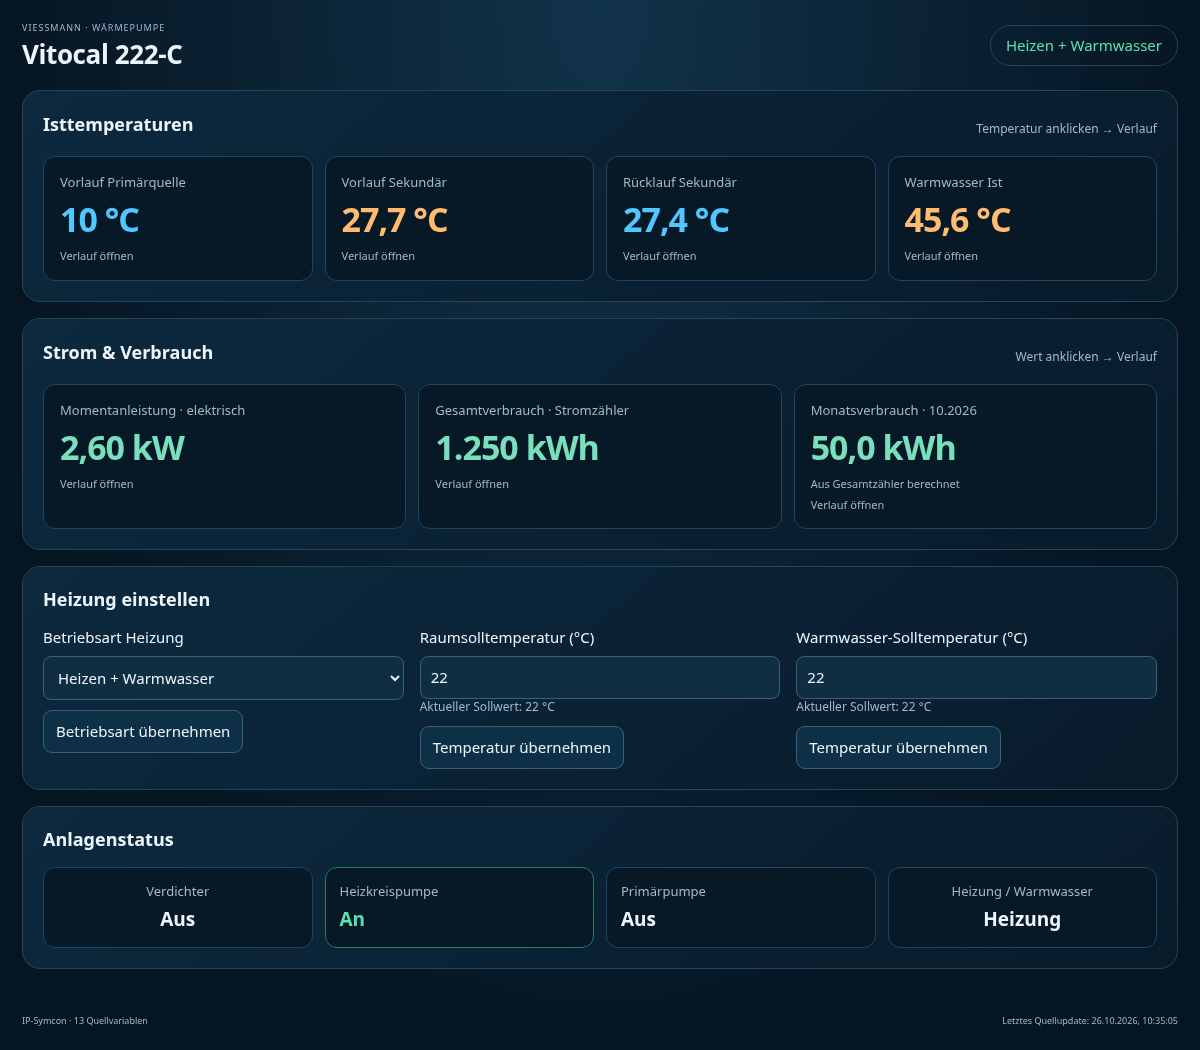
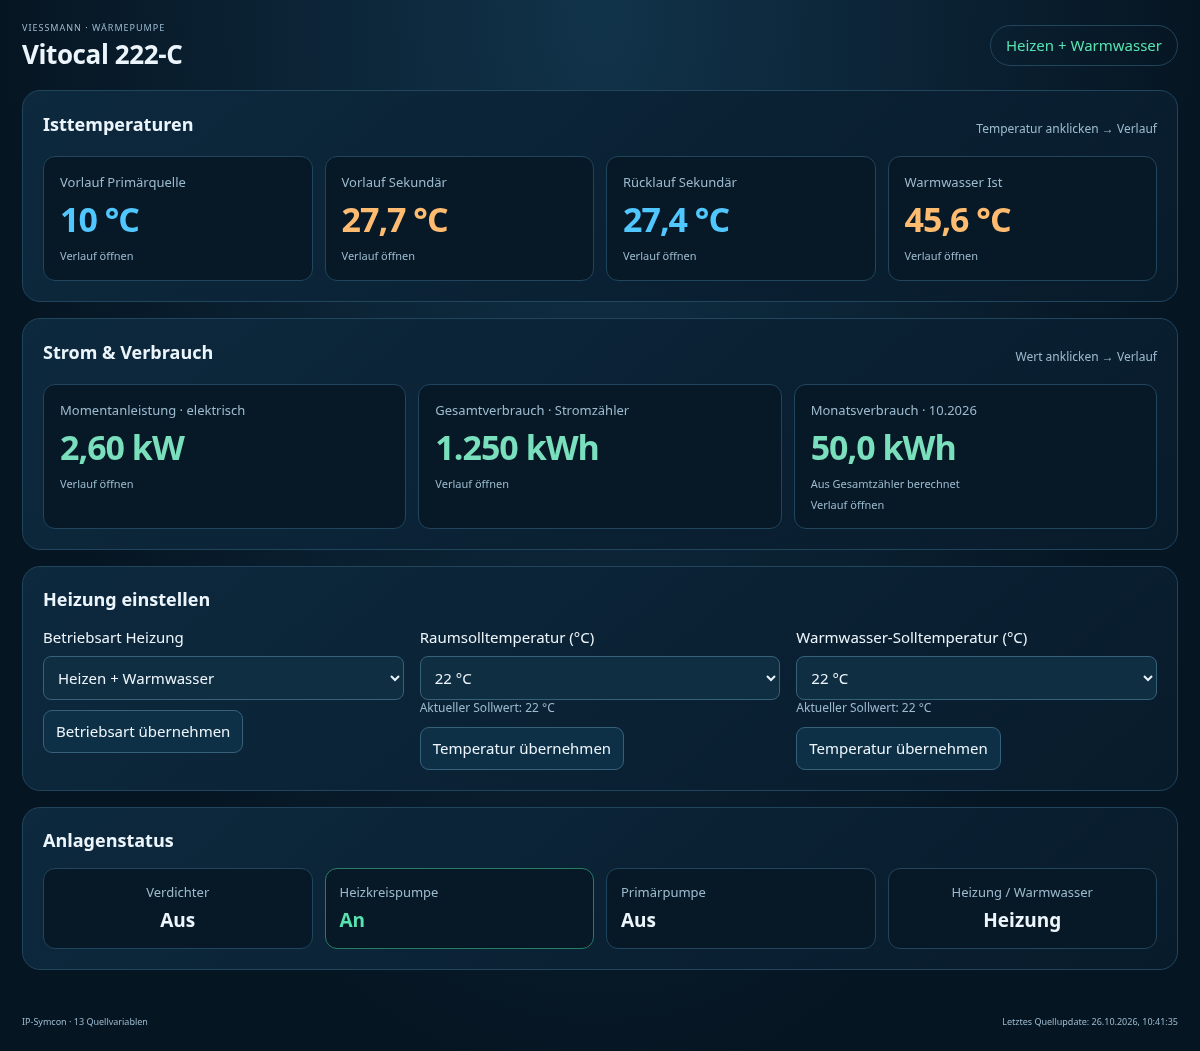
Select room and water targets from one-degree dropdowns

diff --git a/Vitocal222CTile/tile.html b/Vitocal222CTile/tile.html
@@ -26,7 +26,7 @@
 <button class="reading energy-card" data-history="total"><span class="label">Gesamtverbrauch · Stromzähler</span><span id="total" class="value energy-value">—</span><span id="totalReason" class="energy-note"></span><span class="chart-link">Verlauf öffnen</span></button>
 <button class="reading energy-card" data-history="month"><span id="monthCaption" class="label">Monatsverbrauch</span><span id="month" class="value energy-value">—</span><span id="monthReason" class="energy-note"></span><span class="chart-link">Verlauf öffnen</span></button>
 </div></section>
-<section class="panel wide"><h2>Heizung einstellen</h2><div class="control-grid"><div><label>Betriebsart Heizung<select id="modeSelect"></select><input id="modeInput" type="text" maxlength="100" aria-label="Betriebsart als Variablenwert" hidden></label><div id="modeReason" class="control-note"></div><button id="applyMode">Betriebsart übernehmen</button></div><div><label>Raumsolltemperatur (°C)<input id="roomTargetInput" type="number" step="0.5" min="10" max="30"></label><div id="roomTargetCurrent" class="control-note"></div><div id="roomTargetReason" class="control-note"></div><button id="applyRoomTarget">Temperatur übernehmen</button></div><div><label>Warmwasser-Solltemperatur (°C)<input id="waterTargetInput" type="number" step="0.5" min="10" max="60"></label><div id="waterTargetCurrent" class="control-note"></div><div id="waterTargetReason" class="control-note"></div><button id="applyWaterTarget">Temperatur übernehmen</button></div></div></section>
+<section class="panel wide"><h2>Heizung einstellen</h2><div class="control-grid"><div><label>Betriebsart Heizung<select id="modeSelect"></select><input id="modeInput" type="text" maxlength="100" aria-label="Betriebsart als Variablenwert" hidden></label><div id="modeReason" class="control-note"></div><button id="applyMode">Betriebsart übernehmen</button></div><div><label>Raumsolltemperatur (°C)<select id="roomTargetInput" required></select></label><div id="roomTargetCurrent" class="control-note"></div><div id="roomTargetReason" class="control-note"></div><button id="applyRoomTarget">Temperatur übernehmen</button></div><div><label>Warmwasser-Solltemperatur (°C)<select id="waterTargetInput" required></select></label><div id="waterTargetCurrent" class="control-note"></div><div id="waterTargetReason" class="control-note"></div><button id="applyWaterTarget">Temperatur übernehmen</button></div></div></section>
 <section class="panel wide"><h2>Anlagenstatus</h2><div id="statuses" class="status-grid"></div></section>
 </div>
 <div id="feedback" class="feedback" role="status" aria-live="polite"></div><footer><span id="sourceState"></span><span id="updated"></span></footer>
@@ -86,8 +86,15 @@ function renderControls(data){
  $('modeReason').textContent=mode?.reason || (!options.length?'Exakten Betriebsartwert der Quellvariable eingeben.':'');
  for(const key of ['roomTarget','waterTarget']){
   const control=data.controls?.[key],input=$(key+'Input');
-  input.min=control?.min ?? 10;input.max=control?.max ?? (key==='waterTarget'?60:30);input.step=control?.step ?? .5;
-  if(document.activeElement!==input)input.value=data.values[key]?.value ?? '';
+  const min=Math.ceil(control?.min ?? 10),max=Math.floor(control?.max ?? (key==='waterTarget'?60:30));
+  const range=min+':'+max;
+  if(input.dataset.range!==range){
+   const placeholder=document.createElement('option');placeholder.value='';placeholder.textContent='Temperatur auswählen';placeholder.disabled=true;
+   const options=[placeholder];
+   for(let value=min;value<=max;value++){const option=document.createElement('option');option.value=String(value);option.textContent=number.format(value)+' °C';options.push(option);}
+   input.replaceChildren(...options);input.dataset.range=range;
+  }
+  if(document.activeElement!==input){const current=data.values[key]?.value;input.value=Number.isInteger(current)&&current>=min&&current<=max?String(current):'';}
   input.disabled=!control?.enabled;$(key==='roomTarget'?'applyRoomTarget':'applyWaterTarget').disabled=!control?.enabled;
   $(key+'Reason').textContent=control?.reason || '';
   $(key+'Current').textContent='Aktueller Sollwert: '+temperature(data.values[key]);

diff --git a/Vitocal222CTile/module.php b/Vitocal222CTile/module.php
@@ -312,7 +312,7 @@ class Vitocal222CTile extends IPSModule
         $controls = [];
         foreach (['mode', 'roomTarget', 'waterTarget'] as $key) {
             $id = $this->ReadPropertyInteger(self::SOURCES[$key][0]);
-            $entry = ['enabled'=>false, 'reason'=>'Quellvariable fehlt.', 'options'=>[], 'min'=>10.0, 'max'=>30.0, 'step'=>0.5];
+            $entry = ['enabled'=>false, 'reason'=>'Quellvariable fehlt.', 'options'=>[], 'min'=>10.0, 'max'=>30.0, 'step'=>1.0];
             if ($key === 'waterTarget') { $entry['min'] = 10.0; $entry['max'] = 60.0; }
             if ($id > 0 && IPS_VariableExists($id)) {
                 $v = IPS_GetVariable($id);
@@ -324,8 +324,6 @@ class Vitocal222CTile extends IPSModule
                 $max = $profile['MaxValue'] ?? $presentation['MAX'] ?? null;
                 if (is_numeric($min) && is_numeric($max) && $max > $min) {
                     $entry['min'] = (float)$min; $entry['max'] = (float)$max;
-                    $step = $profile['StepSize'] ?? $presentation['STEP_SIZE'] ?? 0.5;
-                    $entry['step'] = is_numeric($step) && $step > 0 ? (float)$step : 0.5;
                 }
                 $action = $v['VariableCustomAction'] ?: $v['VariableAction'];
                 $entry['enabled'] = $action >= 10000 && (IPS_InstanceExists($action) || IPS_ScriptExists($action)) && ($key === 'mode' ? $v['VariableType'] === 3 : in_array($v['VariableType'], [1,2], true));
@@ -350,7 +348,7 @@ class Vitocal222CTile extends IPSModule
                     if ($control['options'] && !in_array($value, array_column($control['options'], 'value'), true)) throw new InvalidArgumentException('Betriebsart ist nicht im Quellprofil freigegeben.');
                 } else {
                     if ((!is_int($value) && !is_float($value)) || !is_finite((float)$value) || $value < $control['min'] || $value > $control['max']) throw new InvalidArgumentException('Solltemperatur außerhalb des erlaubten Bereichs.');
-                    $steps = ($value-$control['min'])/$control['step'];
+                    $steps = $value;
                     if (abs($steps-round($steps))>0.000001) throw new InvalidArgumentException('Ungültige Temperaturschrittweite.');
                 }
                 $source = $this->ReadPropertyInteger(self::SOURCES[$key][0]);

diff --git a/tests/browser_test.py b/tests/browser_test.py
@@ -155,9 +155,12 @@ with sync_playwright() as p:
     page.set_viewport_size({'width':1200,'height':1100});page.clock.run_for(120)
     page.locator('#modeSelect').select_option('water');page.locator('#applyMode').click()
     check(page.evaluate('calls[calls.length-1]')=={'ident':'ChangeMode','value':'water'},'mode control dispatches selected source value')
-    page.locator('#roomTargetInput').fill('22.5');page.locator('#applyRoomTarget').click()
-    check(page.evaluate('calls[calls.length-1]')=={'ident':'SetRoomTarget','value':22.5},'room target dispatches numeric value')
-    page.locator('#waterTargetInput').fill('51');page.locator('#applyWaterTarget').click()
+    for key in ['roomTarget','waterTarget']:
+        values=page.locator('#'+key+'Input option').evaluate_all('(options)=>options.filter(o=>o.value!=="").map(o=>Number(o.value))')
+        check(len(values)>1 and all(values[i+1]-values[i]==1 for i in range(len(values)-1)),'temperature dropdown uses one degree steps '+key)
+    page.locator('#roomTargetInput').select_option('23');page.locator('#applyRoomTarget').click()
+    check(page.evaluate('calls[calls.length-1]')=={'ident':'SetRoomTarget','value':23},'room target dispatches numeric value')
+    page.locator('#waterTargetInput').select_option('51');page.locator('#applyWaterTarget').click()
     check(page.evaluate('calls[calls.length-1]')=={'ident':'SetWaterTarget','value':51},'water target dispatches numeric value')
     page.evaluate('handleMessage',{'kind':'control','action':'SetRoomTarget','error':'Quellaktion fehlgeschlagen'})
     check(page.locator('#feedback').inner_text()=='Quellaktion fehlgeschlagen','source action error displayed')

diff --git a/tests/module_test.php b/tests/module_test.php
@@ -71,16 +71,16 @@ $module->RequestAction('ChangeMode','water');
 check($GLOBALS['captured']['VARIABLE']===$ids['ModeID'] && $GLOBALS['captured']['VALUE']==='water','mode routed to source action');
 check(GetValue($ids['ModeID'])==='heating','no fabricated source mode acknowledgement');
 unset($GLOBALS['captured']);
-$module->RequestAction('SetRoomTarget',22.5);
-check($GLOBALS['captured']['VARIABLE']===$ids['RoomTargetID'] && $GLOBALS['captured']['VALUE']===22.5,'room target routed to source action');
+$module->RequestAction('SetRoomTarget',23);
+check($GLOBALS['captured']['VARIABLE']===$ids['RoomTargetID'] && $GLOBALS['captured']['VALUE']===23,'room target routed to source action');
 check(GetValue($ids['RoomTargetID'])===22.0,'no fabricated target acknowledgement');
 unset($GLOBALS['captured']);
-foreach ([-1,31,22.3,'22.5',NAN,INF,null] as $value) {
+foreach ([-1,31,22.5,22.3,'22.5',NAN,INF,null] as $value) {
     $module->RequestAction('SetRoomTarget',$value);
     check(!isset($GLOBALS['captured']),'invalid room target does not dispatch');
 }
 IPS_SetVariableCustomAction($ids['RoomTargetID'],0);
-$module->RequestAction('SetRoomTarget',22.5);
+$module->RequestAction('SetRoomTarget',23);
 check(!isset($GLOBALS['captured']) && !snapshot($module)['controls']['roomTarget']['enabled'],'missing action disables control');
 IPS_SetVariableCustomAction($ids['RoomTargetID'],$action);
 IPS_CreateVariableProfile('Fixture.Room',2);IPS_SetVariableProfileValues('Fixture.Room',15,25,0.5);IPS_SetVariableCustomProfile($ids['RoomTargetID'],'Fixture.Room');

diff --git a/docs/VALIDATION.md b/docs/VALIDATION.md
@@ -1,15 +1,15 @@
-# Prüfbericht · Version 2.6
+# Prüfbericht · Version 2.7
 
-Lokal geprüft mit PHP 8.4.24, offiziellen SymconStubs (Commit `31f2e0478eb3763236fcf44ea4144271fdeddfd5`), Python 3, Playwright 1.62.0 und System-Chromium. PHP wurde aus anhand signierter Debian-Indizes geprüften Paketen lokal unter `/tmp/php-local` extrahiert. Die Testlaufzeit ist keine Produktivabhängigkeit.
+Lokal geprüft mit PHP 8.4.27, offiziellen SymconStubs (Commit `31f2e0478eb3763236fcf44ea4144271fdeddfd5`), Python 3, Playwright 1.62.0 und System-Chromium. PHP wurde aus anhand signierter Debian-Indizes geprüften Paketen lokal unter `/tmp/php-local` extrahiert. Die Testlaufzeit ist keine Produktivabhängigkeit.
 
 ## Bestanden
 
 - PHP-Syntaxprüfung des Moduls.
 - Bibliotheksprüfung: Laden der vollständigen `library.json` mit dem offiziellen SymconStubs-Lader, einschließlich Erkennung aller Modulordner. Der frühere Test lud nur das Einzelmodul und erkannte deshalb den ungültigen Ordner `dist` nicht.
 - Build-Ausgaben außerhalb des Repositorys; Ausgabeziele im Checkout werden vor Dateierzeugung abgewiesen. Nicht reservierte sichtbare Verzeichnisse ohne `module.json` verhindern den Build.
-- **116 Modulprüfungen**: elf Heizungsquellen und Referenzen, Migration der Standard-IDs, Weiterleitung der drei Bedienaktionen an Quellaktionen, fehlende Aktionen, Profilgrenzen, Typ- und Schrittprüfung, Fehlerweitergabe, unveränderte Quellwerte ohne Gerätebestätigung, Quellupdates, HTML-Escaping und wiederholtes ApplyChanges.
+- **117 Modulprüfungen**: elf Heizungsquellen und Referenzen, Migration der Standard-IDs, Weiterleitung der drei Bedienaktionen an Quellaktionen, fehlende Aktionen, Profilgrenzen, Typ- und Schrittprüfung, Fehlerweitergabe, unveränderte Quellwerte ohne Gerätebestätigung, Quellupdates, HTML-Escaping und wiederholtes ApplyChanges.
 - Archivintegration über das echte offizielle **ArchiveControl-Stub-Modul**: aktive/fehlende Archivierung, alle vier Temperaturzuordnungen, Rohwerte in chronologischer Reihenfolge, leere Zeitfenster ohne erfundene Ersatzwerte, Stundenmittel, automatisch und explizit ausgewählte Archive, Archivwechsel, falsche Instanz, Ablehnung von Zählerarchiven, Zeitbereichsgrenzen, Quellen-Allowlist, nichtnumerische Quellen, Erkennung des 10.000-Werte-Limits, korrelierte SDK-Antworten sowie lesbare Fehlermeldungen bei fehlerhaften Anfragen. Archivschreibaufrufe existieren ausschließlich im Test zur Fixture-Erzeugung.
-- **129 Browserprüfungen**: vier anklickbare Isttemperaturen, Betriebsartauswahl und zwei Sollwerteingaben mit SDK-Befehlen und Fehlermeldungen, SDK-Verfügbarkeit, Modal und Tastaturbedienung, Zeichnen von Archivdaten, Tabelle, Messpunktanzeige, alle fünf Zeitbereiche, Vor-/Zurückblättern um eine vollständige Fensterbreite, Zukunftssperre, Stundenmittel-Kennzeichnung, einzelner Messpunkt, leere Daten, Archivfehler, Zeitüberschreitung, Verwerfen verspäteter Antworten und Wechsel zwischen Temperaturen. Kein horizontaler Überlauf bei 320, 390, 768 und 1200 Pixel Breite; keine JavaScript-Fehler.
+- **131 Browserprüfungen**: vier anklickbare Isttemperaturen, Betriebsartauswahl und zwei Sollwert-Dropdowns in 1-°C-Schritten mit SDK-Befehlen und Fehlermeldungen, SDK-Verfügbarkeit, Modal und Tastaturbedienung, Zeichnen von Archivdaten, Tabelle, Messpunktanzeige, alle fünf Zeitbereiche, Vor-/Zurückblättern um eine vollständige Fensterbreite, Zukunftssperre, Stundenmittel-Kennzeichnung, einzelner Messpunkt, leere Daten, Archivfehler, Zeitüberschreitung, Verwerfen verspäteter Antworten und Wechsel zwischen Temperaturen. Kein horizontaler Überlauf bei 320, 390, 768 und 1200 Pixel Breite; keine JavaScript-Fehler.
 - Höhenanpassung geprüft bei 1200×220, 640×220, 320×260, 800×160, 320×480, 1800×180, 240×150 und 1200×1100 Pixeln: sämtliche Übersichtselemente einschließlich Fußzeile liegen innerhalb des sichtbaren Bereichs, ohne Seiten-Scrollleisten. Größenwechsel funktionieren ohne Neuladen; Vergrößern stellt den Originalmaßstab wieder her. Längere Livewerte lösen eine erneute Einpassung aus. Ein eigener Iframe-Test ändert ausschließlich die Höhe des umgebenden Tiles und prüft Verkleinern und Vergrößern. Die skalierten Temperaturkarten öffnen weiterhin den unabhängig begrenzten Verlaufsdialog.
 - Elektrische Werte: W→kW und Wh→kWh, echte Nullwerte, fehlende IDs und unbekannte Einheiten, negative Werte, Quellen-Referenzen, optionale Monatsvariable und deren Graph, Gesamtzählerstand statt Counter-Aggregatmittel, vollständige Pagination über 10.000 Rohwerte, Monatsberechnung mit archiviertem Anfangsstand, fehlende Grenze und Rücksetzung trotz anschließend höherem Endstand. Zeitzonengrenzen explizit bei Sommer-/Winterzeit, Jahreswechsel und Schaltjahr geprüft.
 - Elektrische Browserprüfungen: drei Karten, passende kW-/kWh-Einheiten in Anzeige, Tabelle und Tooltip, Live-Updates, fehlende Daten als Strich statt Null, sowie getrennte Balken am Monatswechsel.
@@ -27,6 +27,6 @@ Die Kachel enthält kein Anlagenschema und keine Schema-Exporte mehr. Die Browse
 
 Der vorhandene GitHub-Workflow führt die lokalen Prüfungen bei Push/PR aus. Ein erfolgreicher lokaler Lauf belegt keinen erfolgreichen GitHub-CI-Lauf oder eine Installation auf dem Symcon-Server.
 
-Version 2.6 prüft zusätzlich archivierte boolesche Statuswechsel einschließlich Anfangszustand, Balkendarstellung und Zustandsbeschriftung für Verdichter und Ventil sowie Verbrauchsbalken ohne Verbindungslinie.
+Version 2.7 prüft zusätzlich archivierte boolesche Statuswechsel einschließlich Anfangszustand, Balkendarstellung und Zustandsbeschriftung für Verdichter und Ventil sowie Verbrauchsbalken ohne Verbindungslinie.
 
 Regression 2.4: Beide booleschen Quellen liefern auch bei Archiv-Aggregationstyp 2 dieselben Rohzustände und Anfangswerte; es werden keine numerischen Mittelwerte für Schaltzustände verwendet.

diff --git a/README.md b/README.md
@@ -8,7 +8,7 @@ Modul für die **Kachelvisualisierung ab IP-Symcon 7.1**. Zeigt vier gemessene T
 
 In **Module Control** das Repository `https://github.com/somm86/Viessmann-Vitocal-222` mit Branch `main` hinzufügen oder aktualisieren. Instanz **Vitocal 222-C Kachel** erstellen bzw. die vorhandene Instanz öffnen, **Übernehmen** drücken und die Kachel neu öffnen. Bibliotheks- und Modul-GUIDs bleiben beim Update gleich; keine neue Instanz erforderlich.
 
-Alternativ das mit `python3 tests/build.py` erzeugte `Vitocal222C-Kachel-2.6.zip` entpacken und den enthaltenen Ordner `Vitocal222C_Kachel` vollständig nach `<Symcon-Datenverzeichnis>/modules/` auf dem Symcon-Server kopieren. Direkt darin muss `library.json` liegen. Symcon-Dienst neu starten. Nicht gleichzeitig per Module Control und lokal installieren.
+Alternativ das mit `python3 tests/build.py` erzeugte `Vitocal222C-Kachel-2.7.zip` entpacken und den enthaltenen Ordner `Vitocal222C_Kachel` vollständig nach `<Symcon-Datenverzeichnis>/modules/` auf dem Symcon-Server kopieren. Direkt darin muss `library.json` liegen. Symcon-Dienst neu starten. Nicht gleichzeitig per Module Control und lokal installieren.
 
 Die Instanz zur Kachelvisualisierung hinzufügen bzw. verlinken. Die Darstellung passt sich der verfügbaren Kachelbreite und -höhe an. Bei geringer Höhe wird die komplette Übersicht proportional verkleinert, einschließlich Kopfbereich und Fußzeile. Wird die Kachel wieder größer, kehrt sie bis zur ursprünglichen Darstellungsgröße zurück. Die Übersicht benötigt keine vertikale Bildlaufleiste; der Verlaufsdialog besitzt bei Bedarf einen eigenen Scrollbereich. Die Geräteintegration muss die vorhandenen Variablen aktualisieren; die Kachel verbindet sich nicht selbst mit der Wärmepumpe.
 
@@ -105,7 +105,7 @@ Die Betriebsart (41758), Raumsolltemperatur (55945) und Warmwasser-Solltemperatu
 
 Für die Betriebsart verwendet die Auswahl vorhandene String-Assoziationen des Quellprofils bzw. der Darstellung. Ohne Auswahlliste wird ein Textfeld für den exakten Betriebsartwert angeboten; die Geräteintegration muss den Wert unterstützen. Es werden keine Betriebsartcodes geraten.
 
-Temperaturgrenzen und Schrittweite werden aus dem wirksamen Quellprofil bzw. der Darstellung übernommen und serverseitig geprüft. Ohne gültigen Profilbereich gelten 10–30 °C für den Raum und 10–60 °C für Warmwasser bei 0,5 °C Schrittweite. Nichtnumerische Werte, unzulässige Schritte und Werte außerhalb des Bereichs werden abgewiesen. Die Kachel zeigt nach Befehlsübergabe weiterhin den tatsächlichen Quellwert; erst die Rückmeldung der Geräteintegration bestätigt eine Änderung. Fehler der Quellaktion erscheinen in der Kachel.
+Die beiden Solltemperaturen werden über Dropdown-Menüs in ganzen 1-°C-Schritten ausgewählt. Temperaturgrenzen werden aus dem wirksamen Quellprofil bzw. der Darstellung übernommen und serverseitig geprüft. Ohne gültigen Profilbereich gelten 10–30 °C für den Raum und 10–60 °C für Warmwasser bei 1 °C Schrittweite. Nichtnumerische Werte, unzulässige Schritte und Werte außerhalb des Bereichs werden abgewiesen. Die Kachel zeigt nach Befehlsübergabe weiterhin den tatsächlichen Quellwert; erst die Rückmeldung der Geräteintegration bestätigt eine Änderung. Fehler der Quellaktion erscheinen in der Kachel.
 
 Die Diagnose ist ausschließlich in der Instanz über **Quellen-Diagnose anzeigen** mit den konfigurierten Quell-IDs und dem Archiv verfügbar. In der Kachel wird keine Quellendiagnose eingeblendet. Die Fußzeile mit Quellenstatus und letztem Quellupdate verwendet 9 px Schriftgröße.
 

diff --git a/CHANGELOG.md b/CHANGELOG.md
@@ -1,5 +1,9 @@
 # Änderungen
 
+## 2.7
+
+- Raum- und Warmwasser-Solltemperatur als Dropdown-Menüs in 1-°C-Schritten, mit Quellprofilgrenzen und serverseitiger Prüfung auf ganze Gradwerte.
+
 ## 2.6
 
 - Neue Heizungs-IDs aus der aktualisierten Anlage; automatische Migration der bisherigen Standardzuordnungen unter Erhalt eigener Quellen.
